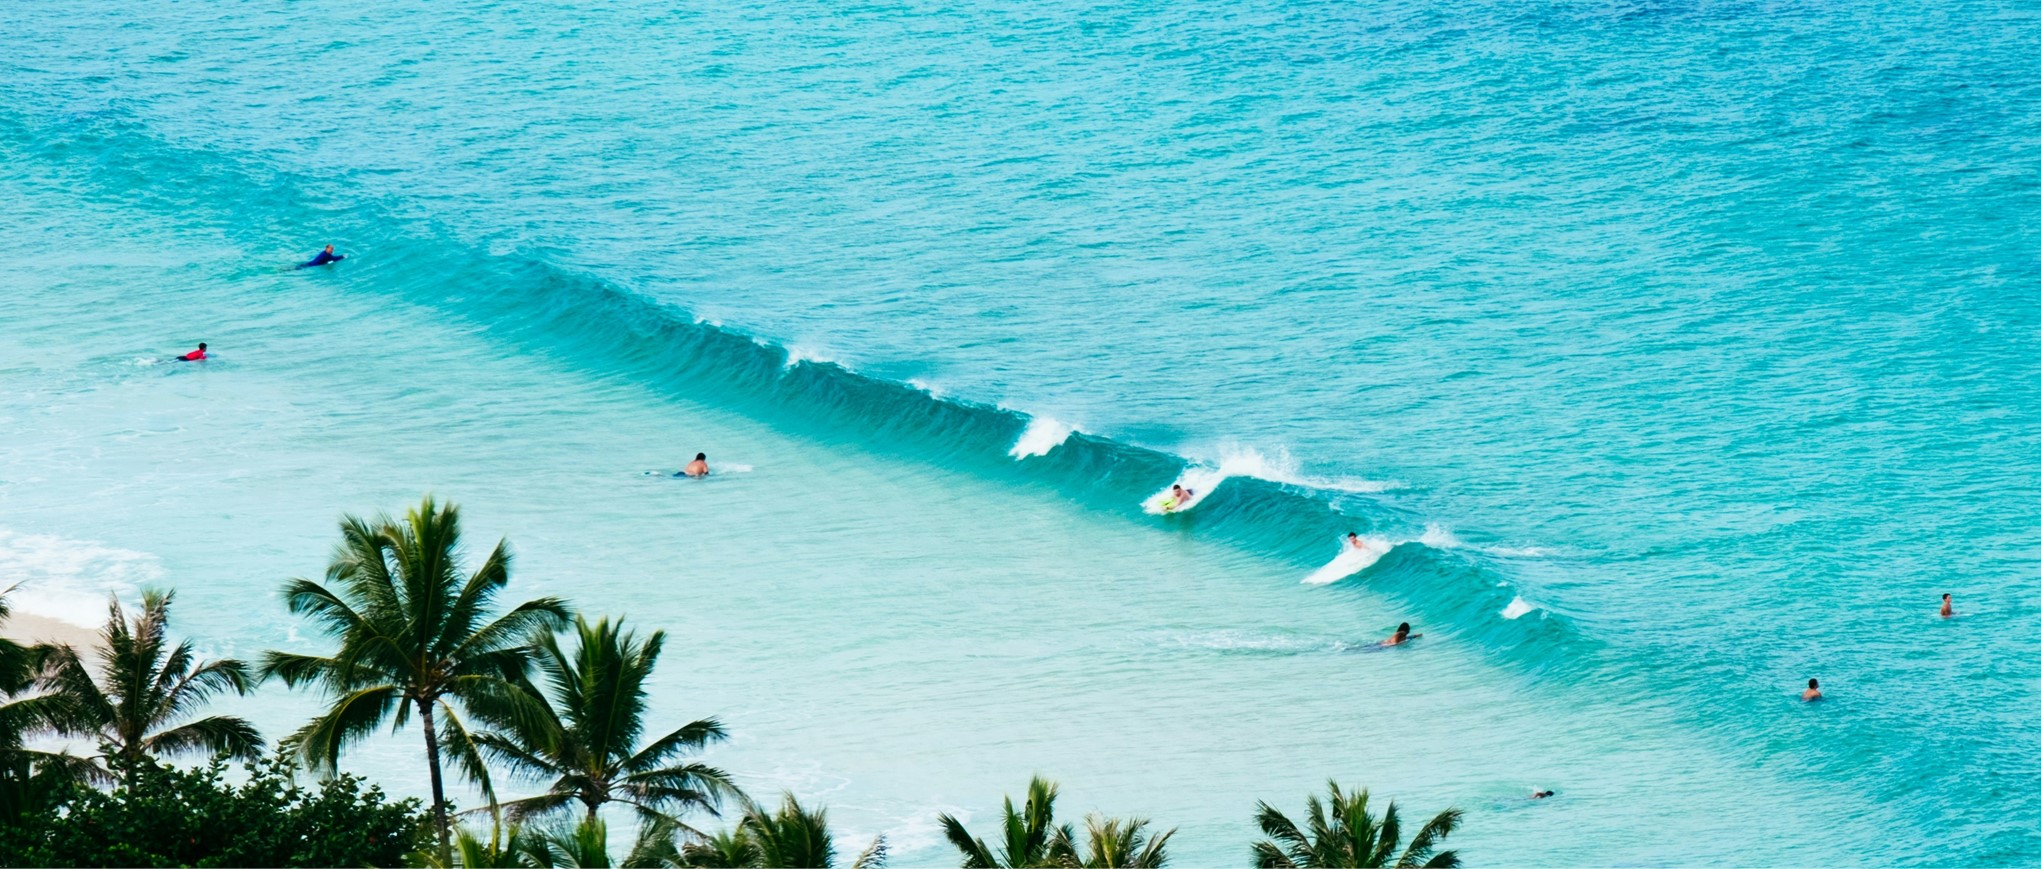
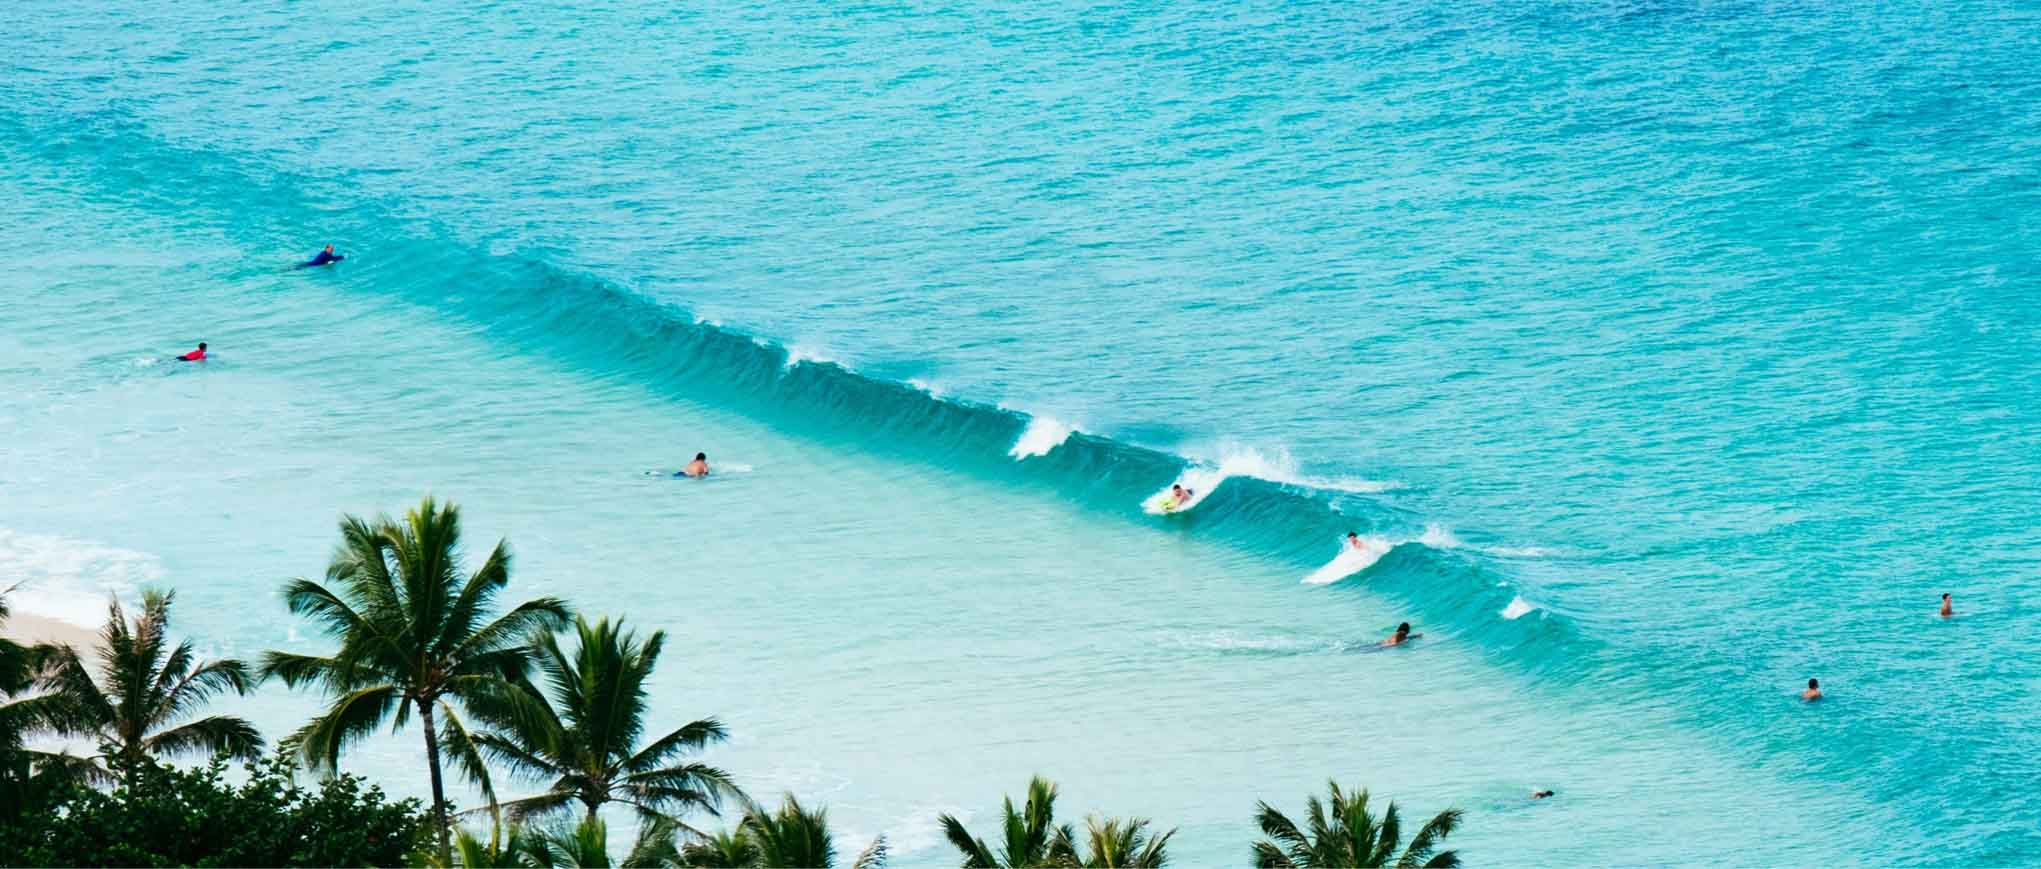
docs: minimize figures size

Changed region(s): [[0.1235, 0.87, 0.1543, 0.901]]

diff --git a/src/easyclimate/core/tutorial.py b/src/easyclimate/core/tutorial.py
@@ -1,9 +1,5 @@
 """
-Useful for:
-
-* users learning easyclimate
-* building tutorials in the documentation.
-
+Tutorials in the `easyclimate` documentation
 """
 
 # idea borrowed from xarray

diff --git a/docs/source/static_docs/teleconnections.rst b/docs/source/static_docs/teleconnections.rst
@@ -1,0 +1,29 @@
+Teleconnections
+====================================
+
+.. figure:: ../_static/fig6.jpg
+    :scale: 40%
+    :align: center
+
+    Photo by Thomas Despeyroux on Unsplash
+
+Teleconnections are significant relationships or links between weather phenomena at
+widely separated locations on earth, which typically entail climate patterns that
+span thousands of miles. Many teleconnection patterns behave like a seesaw, with
+atmospheric mass/pressure shifting back and forth between two distant locations—an
+increase in, say, atmospheric pressure in one location results in a decrease in
+pressure somewhere far, far away.
+
+API
+::::::::::::::::::::::::::::::::::::
+
+.. autosummary::
+
+    easyclimate.field.teleconnection.index_pna
+    easyclimate.field.teleconnection.index_nao
+    easyclimate.field.teleconnection.index_ea
+    easyclimate.field.teleconnection.index_wa
+    easyclimate.field.teleconnection.index_wp
+    easyclimate.field.teleconnection.index_eu
+    easyclimate.field.teleconnection.index_srp
+    easyclimate.field.teleconnection.index_cgt

diff --git a/docs/source/static_docs/air_sea_interaction.rst b/docs/source/static_docs/air_sea_interaction.rst
@@ -44,3 +44,7 @@ API
 .. autosummary::
 
     easyclimate.field.air_sea_interaction.index_enso
+    easyclimate.field.air_sea_interaction.index_iod
+    easyclimate.field.air_sea_interaction.index_iobm
+    easyclimate.field.air_sea_interaction.index_amm
+    easyclimate.field.air_sea_interaction.index_atlantic_nino

diff --git a/docs/source/index.rst b/docs/source/index.rst
@@ -103,6 +103,7 @@ An example BibTeX entry:
    :caption: Climate Field
 
    ./static_docs/air_sea_interaction
+   ./static_docs/teleconnections
    ./static_docs/ocean
    ./static_docs/monsoon
    ./static_docs/land
